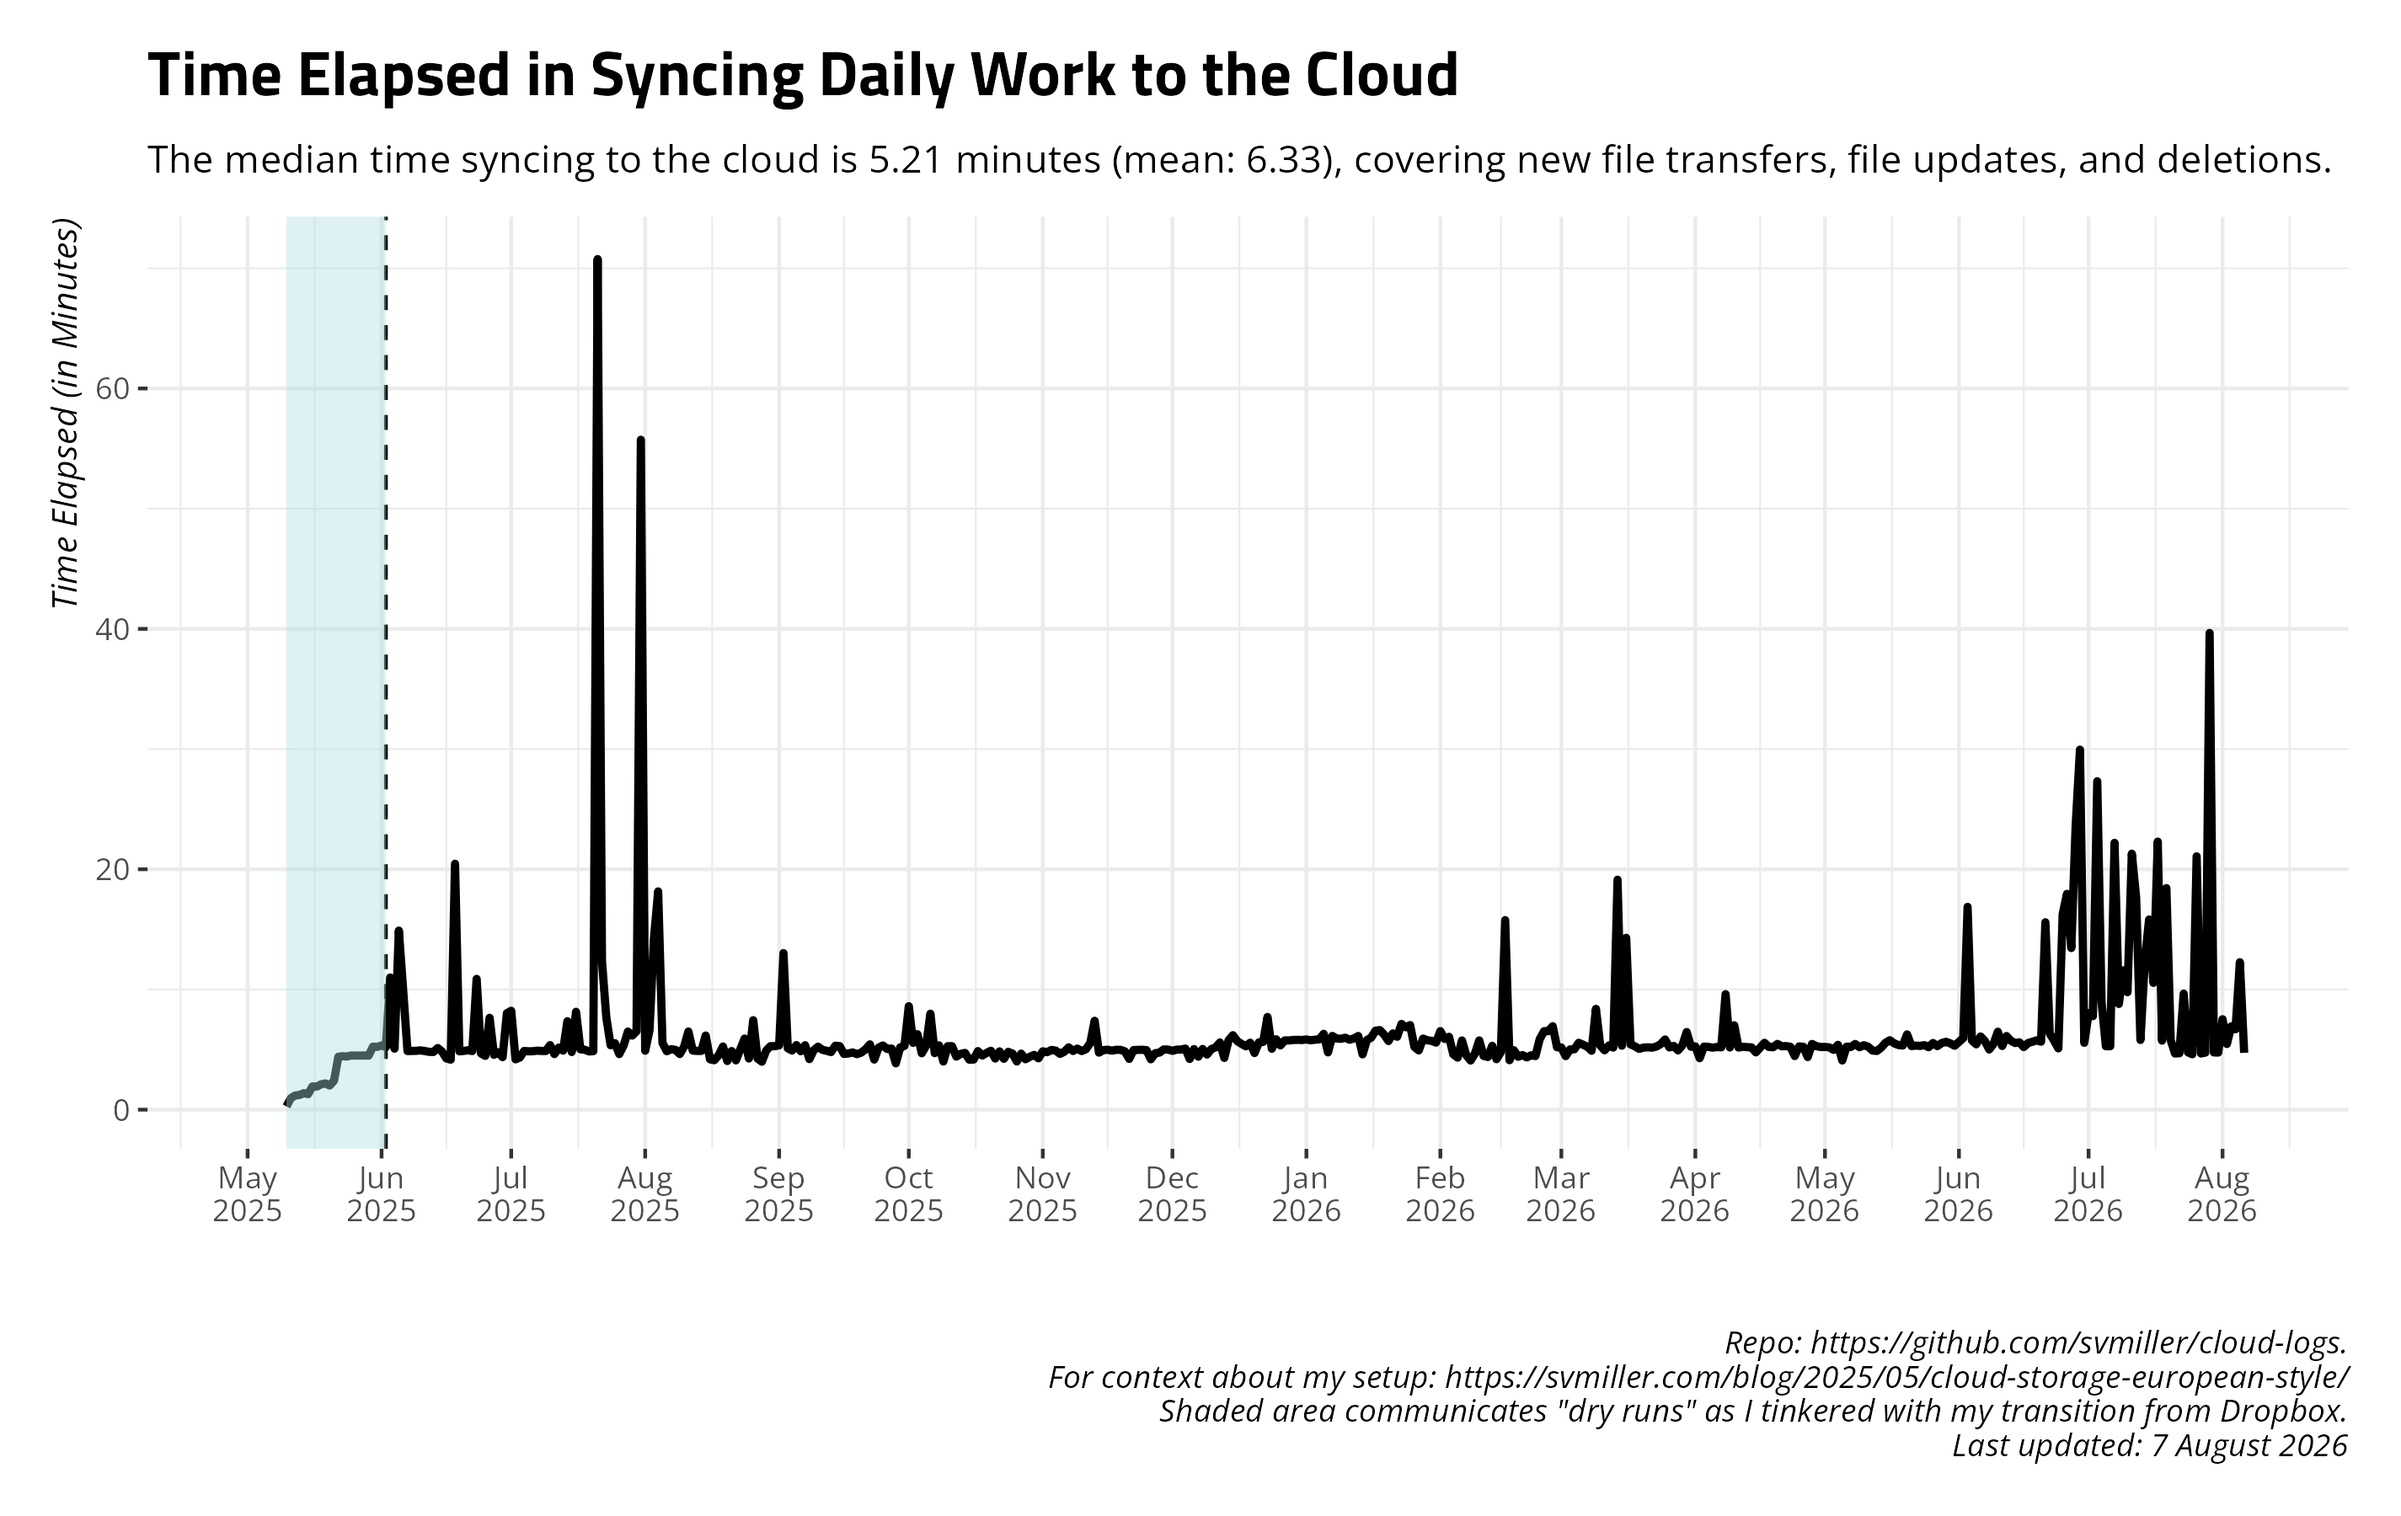
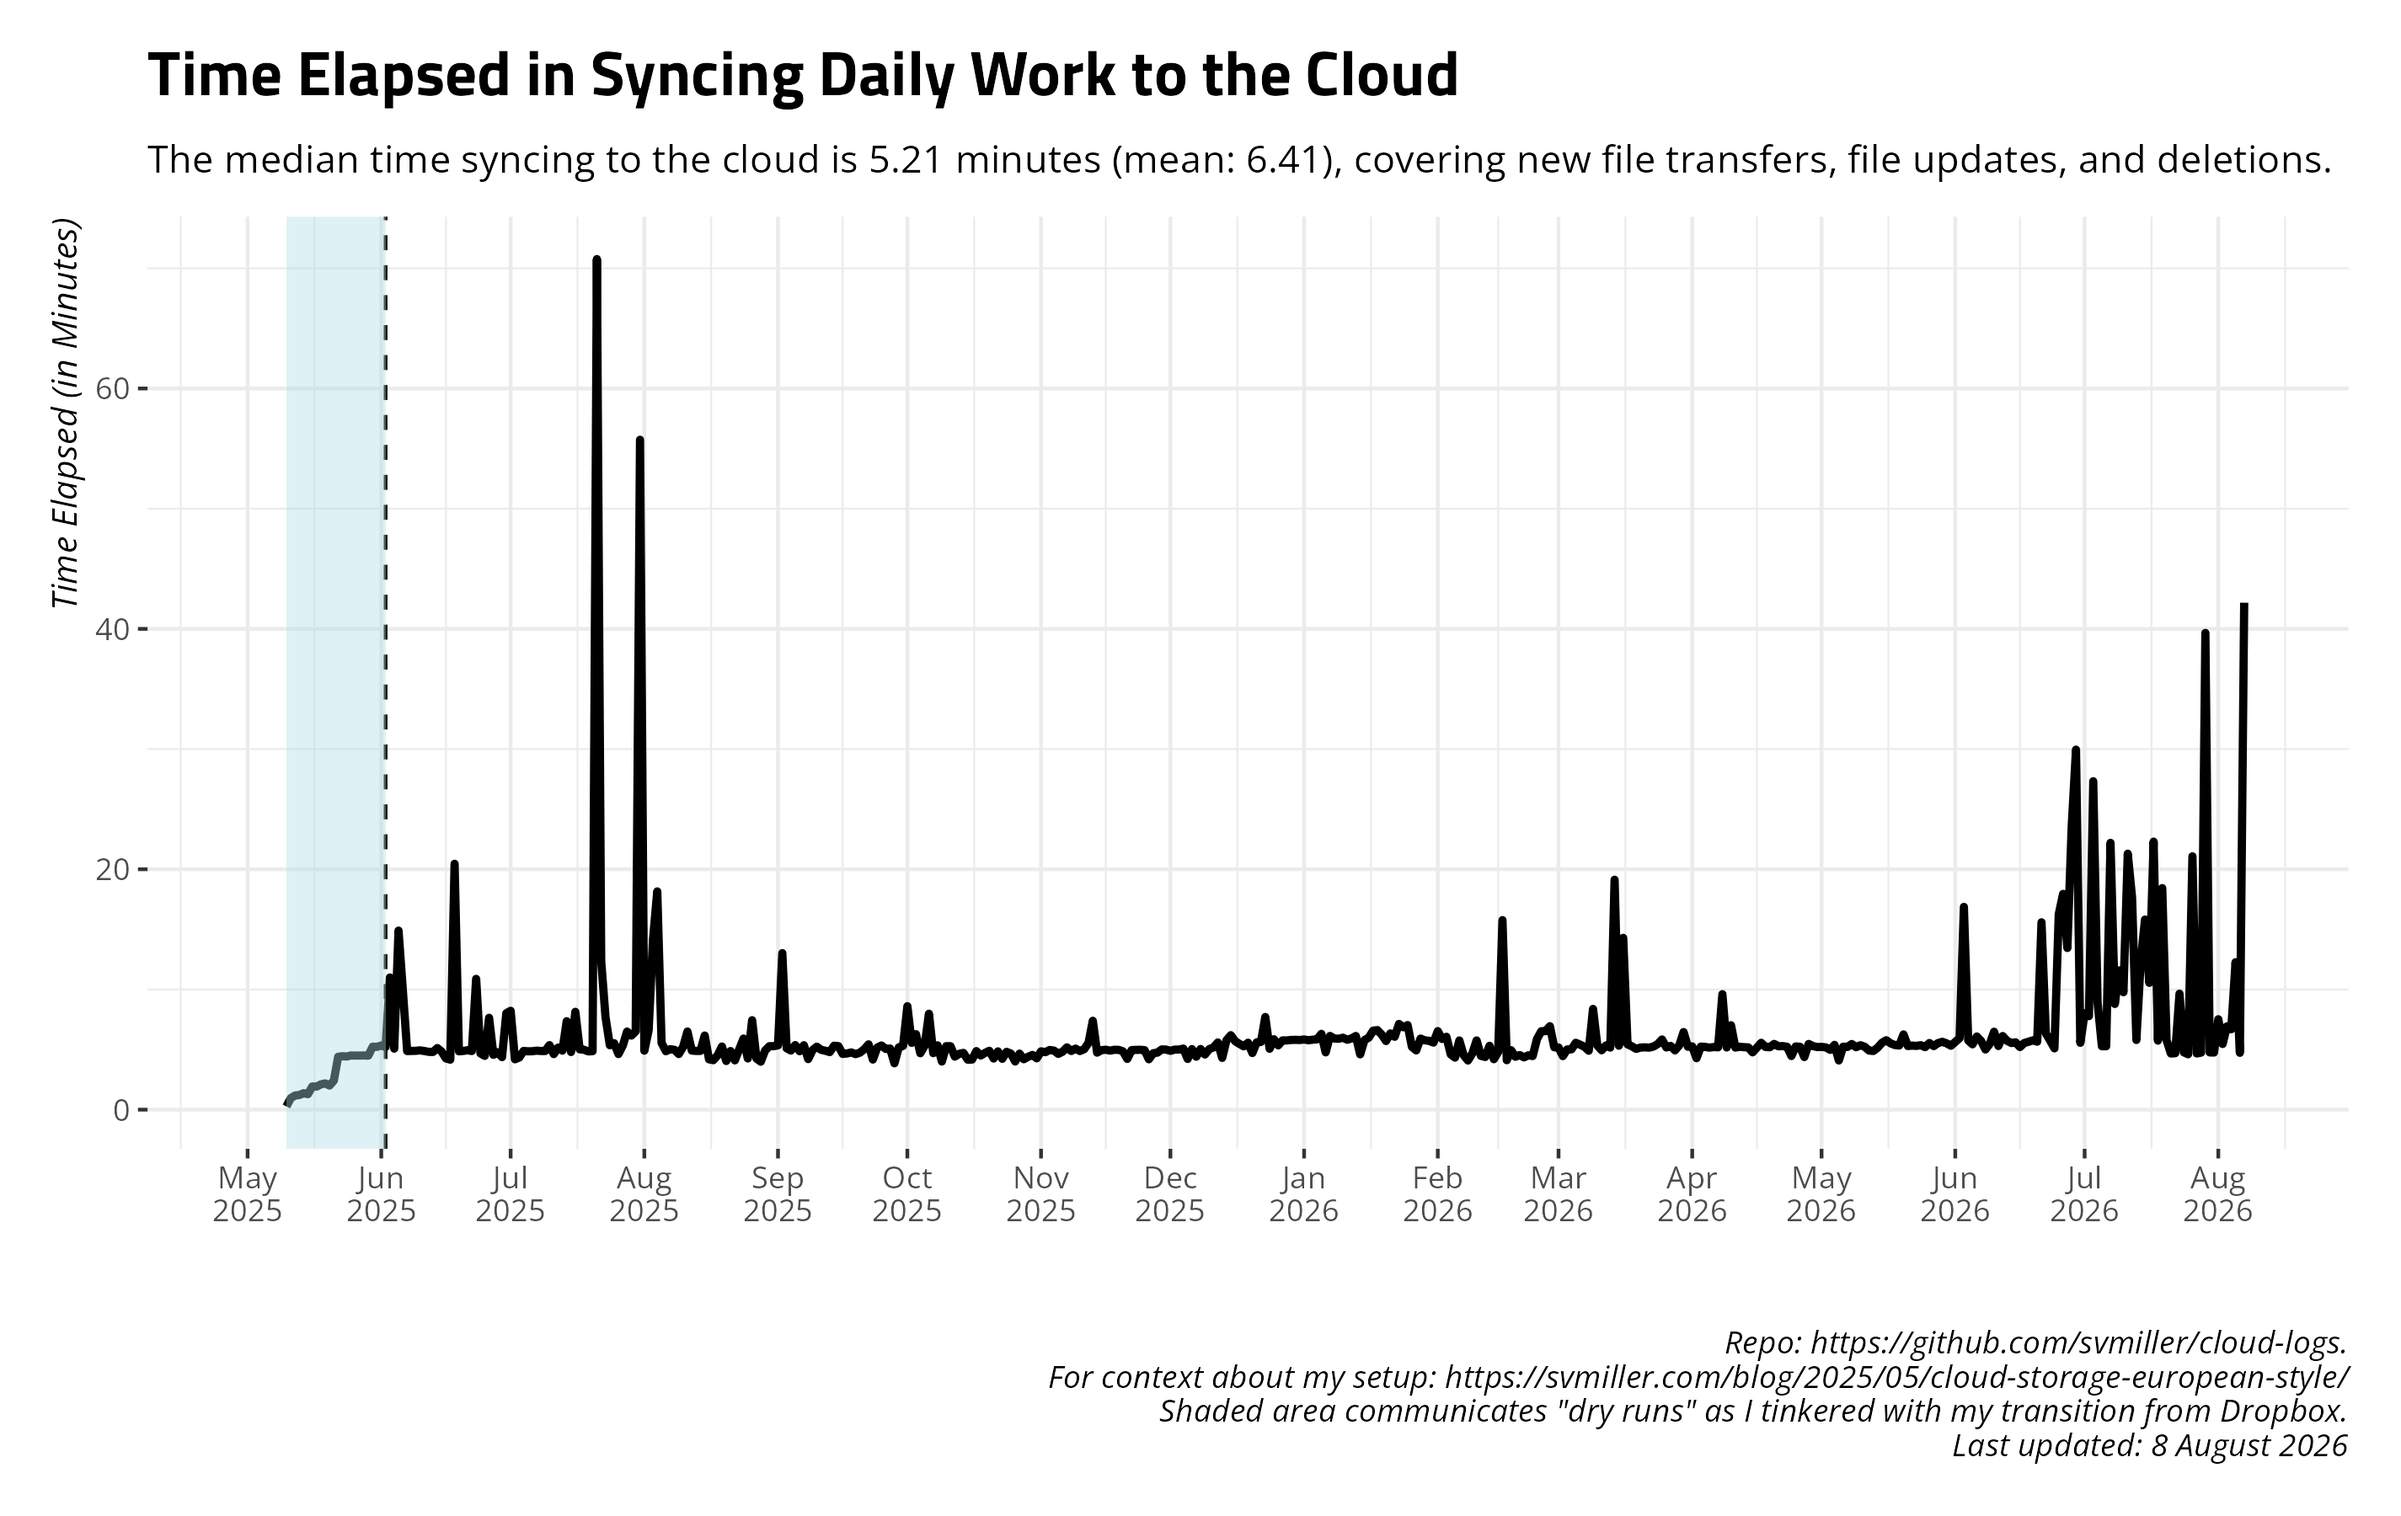
Date: 2026-08-08 09:00:39. Hi mom!

diff --git a/README.md b/README.md
@@ -27,17 +27,17 @@ and uploads to Github.
     #> # A tibble: 14 × 4
     #>    date       ftransfer stransfer    elapsed 
     #>    <date>         <dbl> <chr>        <chr>   
-    #>  1 2026-07-24         2 65.241 KiB   4m46.2s 
-    #>  2 2026-07-25         0 <NA>         4m36.5s 
-    #>  3 2026-07-26         0 <NA>         21m4.7s 
-    #>  4 2026-07-27        50 17.862 MiB   4m40.5s 
-    #>  5 2026-07-28         6 1023.222 KiB 4m44.8s 
-    #>  6 2026-07-29         0 <NA>         39m39.7s
-    #>  7 2026-07-30         1 60.194 KiB   4m45.8s 
-    #>  8 2026-07-31        65 447.626 KiB  4m45.2s 
-    #>  9 2026-08-01         0 <NA>         7m31.3s 
-    #> 10 2026-08-02         0 <NA>         5m27.8s 
-    #> 11 2026-08-03         2 1.712 MiB    6m56.0s 
-    #> 12 2026-08-04         0 <NA>         6m41.5s 
-    #> 13 2026-08-05        48 410.448 KiB  12m16.1s
-    #> 14 2026-08-06         5 4.302 MiB    4m43.7s
+    #>  1 2026-07-25         0 <NA>         4m36.5s 
+    #>  2 2026-07-26         0 <NA>         21m4.7s 
+    #>  3 2026-07-27        50 17.862 MiB   4m40.5s 
+    #>  4 2026-07-28         6 1023.222 KiB 4m44.8s 
+    #>  5 2026-07-29         0 <NA>         39m39.7s
+    #>  6 2026-07-30         1 60.194 KiB   4m45.8s 
+    #>  7 2026-07-31        65 447.626 KiB  4m45.2s 
+    #>  8 2026-08-01         0 <NA>         7m31.3s 
+    #>  9 2026-08-02         0 <NA>         5m27.8s 
+    #> 10 2026-08-03         2 1.712 MiB    6m56.0s 
+    #> 11 2026-08-04         0 <NA>         6m41.5s 
+    #> 12 2026-08-05        48 410.448 KiB  12m16.1s
+    #> 13 2026-08-06         5 4.302 MiB    4m43.7s 
+    #> 14 2026-08-07        23 42.005 KiB   42m10.5s
